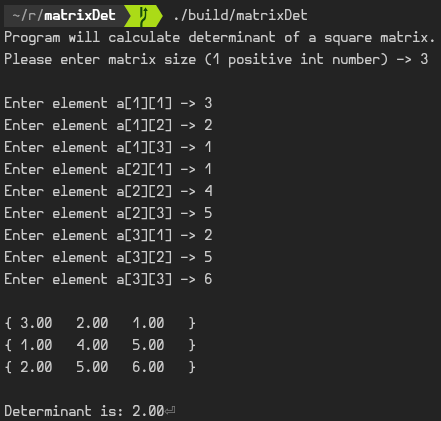
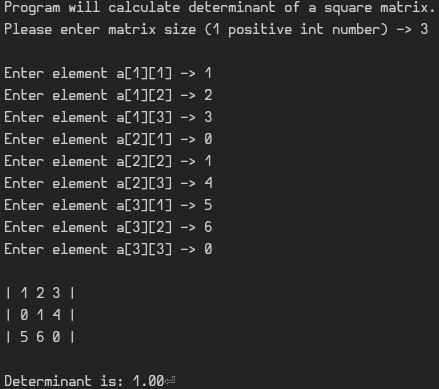
switched to a 1d matrix, created a FlatMatrix class, re-did headers

diff --git a/src/main.cpp b/src/main.cpp
@@ -1,7 +1,5 @@
-#include "getDeterminant.hpp"
-#include "printMatrix.hpp"
+#include "matrices.hpp"
 #include <iostream>
-#include <vector>
 #include <iomanip>
 
 using namespace std;
@@ -11,31 +9,28 @@ int precision = 2; //for output
 int main(){
     cout << "Program will calculate determinant of a square matrix.\n";
     cout << "Please enter matrix size (1 positive int number) -> ";
-    int size;
+    size_t size;
 
     cin >> size;
 
     cout << "\n";
 
-    vector<vector<float>> matrix(
-        size,
-        vector<float>(size)
-    );
+    FlatMatrix<float> matrix(size, size);
 
-    for (int i = 0; i < matrix.size(); i++){
-        for (int j = 0; j < matrix[i].size(); j++){
+    for (size_t i = 0; i < matrix.rowCount(); i++){
+        for (size_t j = 0; j < matrix.colCount(); j++){
             cout << "Enter element a[" << i+1 << "][" << j+1 << "] -> ";
-            cin >> matrix[i][j];
+            cin >> matrix(i, j);
         }
     }
 
     cout << "\n";
 
-    printMatrix(matrix, precision);
+    cout << matrix;
 
     cout << "\n";
 
-    cout << "Determinant is: " << fixed << setprecision(precision) << getDeterminant(matrix);
+    cout << "Determinant is: " << fixed << setprecision(precision) << matrix.determinant();
 
     return 0;
 
